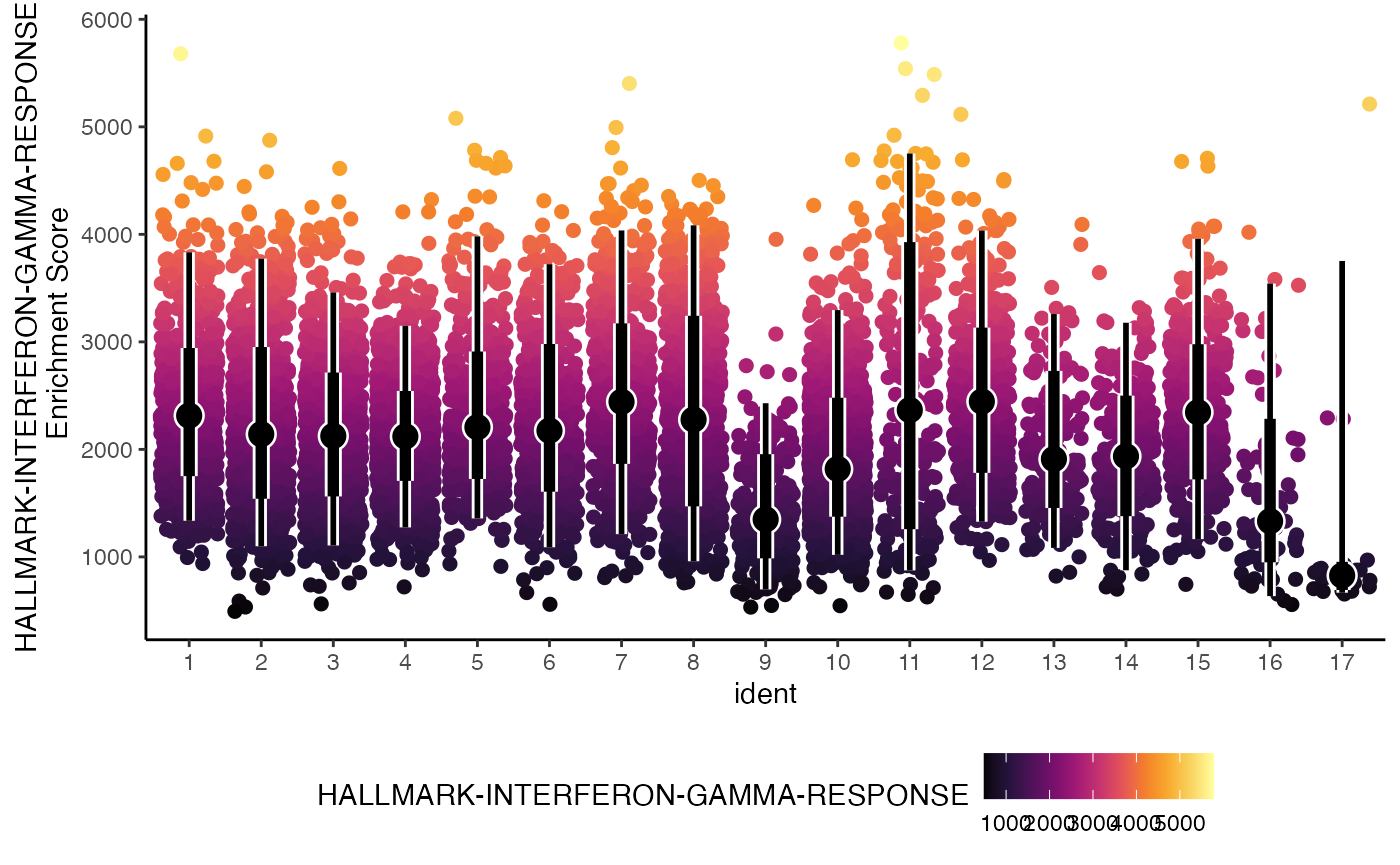
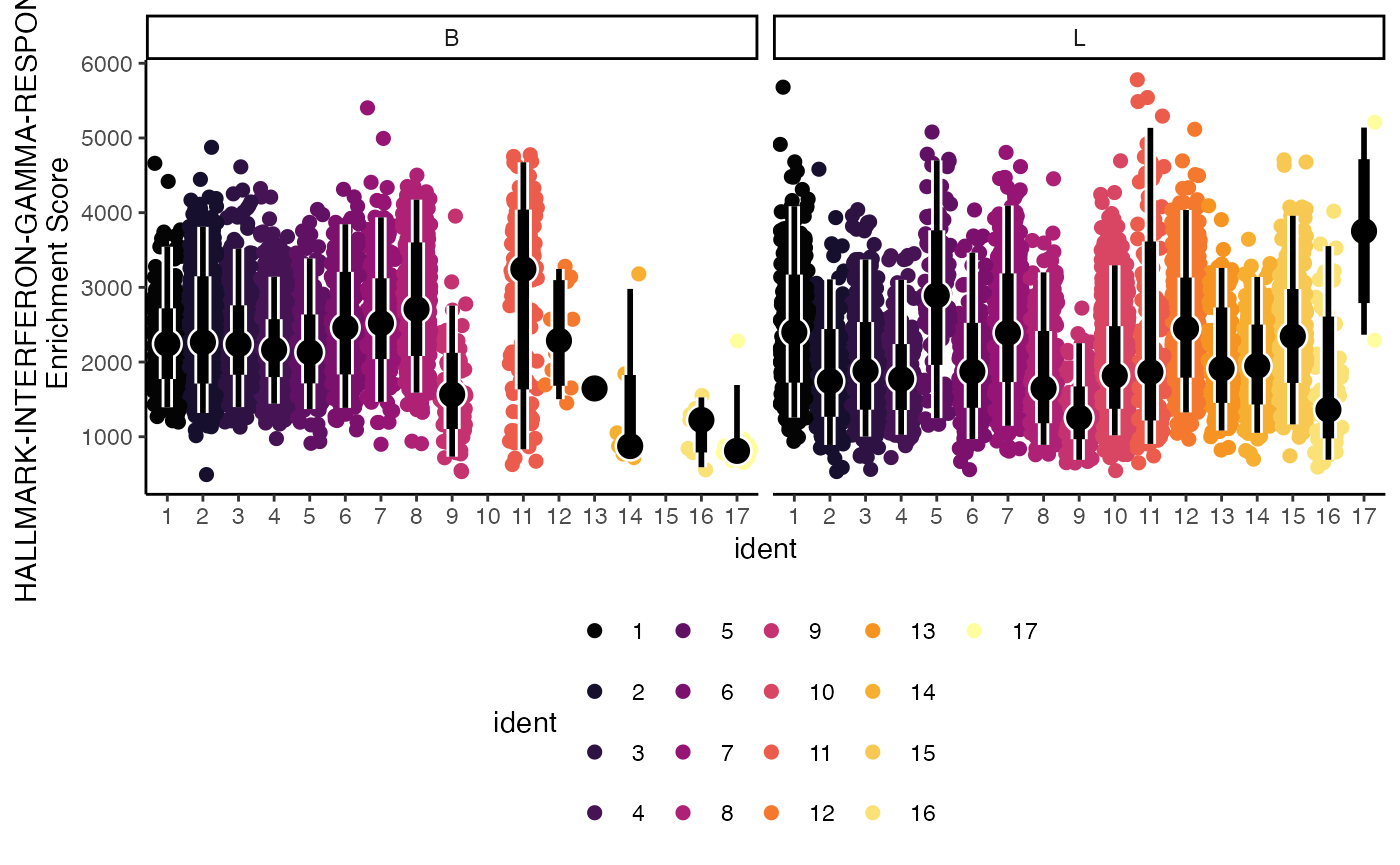
udpate escape and loading

diff --git a/static/uploads/scRepertoire/articles/Running_Escape.html b/static/uploads/scRepertoire/articles/Running_Escape.html
@@ -353,6 +353,17 @@ caution.</p>
 <span>  <span class="fu">theme_classic</span><span class="op">(</span><span class="op">)</span> <span class="op">+</span> </span>
 <span>  <span class="fu">theme</span><span class="op">(</span><span class="op">)</span></span></code></pre></div>
 <p><img src="Running_Escape_files/figure-html/unnamed-chunk-8-1.png" width="700"></p>
+<p>Multi-core support is for all methods is available through <a href="https://bioconductor.org/packages/release/bioc/html/BiocParallel.html" class="external-link">BiocParallel</a>.
+To add more cores, use the argument <strong>BPPARAM</strong> to
+<code>escape.matrix()</code>. Here we will use the
+<code>SnowParam()</code> for it’s support across platforms and
+explicitly call 2 workers (or cores).</p>
+<div class="sourceCode" id="cb9"><pre class="downlit sourceCode r">
+<code class="sourceCode R"><span><span class="va">enrichment.scores</span> <span class="op">&lt;-</span> <span class="fu">escape.matrix</span><span class="op">(</span><span class="va">scRep_example</span>, </span>
+<span>                                   gene.sets <span class="op">=</span> <span class="va">GS.hallmark</span>, </span>
+<span>                                   groups <span class="op">=</span> <span class="fl">5000</span>, </span>
+<span>                                   min.size <span class="op">=</span> <span class="fl">5</span>, </span>
+<span>                                   BPPARAM <span class="op">=</span> <span class="fu">SnowParam</span><span class="op">(</span>workers <span class="op">=</span> <span class="fl">2</span><span class="op">)</span><span class="op">)</span></span></code></pre></div>
 </div>
 <div class="section level3">
 <h3 id="runescape">runEscape<a class="anchor" aria-label="anchor" href="#runescape"></a>
@@ -362,7 +373,7 @@ enrichment score and directly attach the output to a single-cell object.
 The additional parameter for ``<code>runEscape</code> is
 <strong>new.assay.name</strong>, in order to save the enrichment scores
 as a custom assay in the single-cell object.</p>
-<div class="sourceCode" id="cb9"><pre class="downlit sourceCode r">
+<div class="sourceCode" id="cb10"><pre class="downlit sourceCode r">
 <code class="sourceCode R"><span><span class="va">scRep_example</span> <span class="op">&lt;-</span> <span class="fu">runEscape</span><span class="op">(</span><span class="va">scRep_example</span>, </span>
 <span>                           method <span class="op">=</span> <span class="st">"ssGSEA"</span>,</span>
 <span>                           gene.sets <span class="op">=</span> <span class="va">GS.hallmark</span>, </span>
@@ -372,14 +383,14 @@ as a custom assay in the single-cell object.</p>
 <p>We can quickly examine the attached enrichment scores using the
 visualization/workflow we prefer - here we will use just
 <code>FeaturePlot()</code> from the Seurat R package.</p>
-<div class="sourceCode" id="cb10"><pre class="downlit sourceCode r">
+<div class="sourceCode" id="cb11"><pre class="downlit sourceCode r">
 <code class="sourceCode R"><span><span class="co">#Define color palette </span></span>
 <span><span class="va">colorblind_vector</span> <span class="op">&lt;-</span> <span class="fu"><a href="https://rdrr.io/r/grDevices/palettes.html" class="external-link">hcl.colors</a></span><span class="op">(</span>n<span class="op">=</span><span class="fl">7</span>, palette <span class="op">=</span> <span class="st">"inferno"</span>, fixup <span class="op">=</span> <span class="cn">TRUE</span><span class="op">)</span></span>
 <span></span>
 <span><span class="fu">FeaturePlot</span><span class="op">(</span><span class="va">scRep_example</span>, <span class="st">"HALLMARK-APOPTOSIS"</span><span class="op">)</span> <span class="op">+</span> </span>
 <span>  <span class="fu">scale_color_gradientn</span><span class="op">(</span>colors <span class="op">=</span> <span class="va">colorblind_vector</span><span class="op">)</span> <span class="op">+</span> </span>
 <span>  <span class="fu">theme</span><span class="op">(</span>plot.title <span class="op">=</span> <span class="fu">element_blank</span><span class="op">(</span><span class="op">)</span><span class="op">)</span></span></code></pre></div>
-<p><img src="Running_Escape_files/figure-html/unnamed-chunk-10-1.png" width="700"></p>
+<p><img src="Running_Escape_files/figure-html/unnamed-chunk-11-1.png" width="700"></p>
 </div>
 <div class="section level3">
 <h3 id="performnormalization">performNormalization<a class="anchor" aria-label="anchor" href="#performnormalization"></a>
@@ -394,7 +405,7 @@ counts will likely have higher enrichment values.
 by calculating the number of genes expressed in each gene set and cell.
 This is similar to the normalization in classic GSEA and it will be
 stored in a new assay.</p>
-<div class="sourceCode" id="cb11"><pre class="downlit sourceCode r">
+<div class="sourceCode" id="cb12"><pre class="downlit sourceCode r">
 <code class="sourceCode R"><span><span class="va">scRep_example</span> <span class="op">&lt;-</span> <span class="fu">performNormalization</span><span class="op">(</span><span class="va">scRep_example</span>, </span>
 <span>                                      assay <span class="op">=</span> <span class="st">"escape.ssGSEA"</span>, </span>
 <span>                                      gene.sets <span class="op">=</span> <span class="va">GS.hallmark</span><span class="op">)</span></span></code></pre></div>
@@ -403,7 +414,7 @@ scaling factor previously calculated during normal single-cell data
 processing and quality control. This can be done using the
 <strong>scale.factor</strong> argument and providing a vector. This
 approach may be particularly advantageous for large data sets.</p>
-<div class="sourceCode" id="cb12"><pre class="downlit sourceCode r">
+<div class="sourceCode" id="cb13"><pre class="downlit sourceCode r">
 <code class="sourceCode R"><span><span class="va">scRep_example</span> <span class="op">&lt;-</span> <span class="fu">performNormalization</span><span class="op">(</span><span class="va">scRep_example</span>, </span>
 <span>                                      assay <span class="op">=</span> <span class="st">"escape.ssGSEA"</span>, </span>
 <span>                                      gene.sets <span class="op">=</span> <span class="va">GS.hallmark</span>, </span>
@@ -439,12 +450,12 @@ the Hallmark Gene Sets to display for the vignette format using the
 <strong>gene.set.use</strong> set to first 12 gene sets. Alternatively,
 we can plot all gene sets using <strong>gene.set.use</strong> =
 “all”.</p>
-<div class="sourceCode" id="cb13"><pre class="downlit sourceCode r">
+<div class="sourceCode" id="cb14"><pre class="downlit sourceCode r">
 <code class="sourceCode R"><span><span class="fu">heatmapEnrichment</span><span class="op">(</span><span class="va">scRep_example</span>, </span>
 <span>                  group.by <span class="op">=</span> <span class="st">"ident"</span>,</span>
 <span>                  gene.set.use <span class="op">=</span> <span class="fu"><a href="https://rdrr.io/r/base/colnames.html" class="external-link">rownames</a></span><span class="op">(</span><span class="va">scRep_example</span><span class="op">@</span><span class="va">assays</span><span class="op">$</span><span class="va">escape.ssGSEA</span><span class="op">@</span><span class="va">data</span><span class="op">)</span><span class="op">[</span><span class="fl">1</span><span class="op">:</span><span class="fl">12</span><span class="op">]</span>,</span>
 <span>                  assay <span class="op">=</span> <span class="st">"escape.ssGSEA"</span><span class="op">)</span></span></code></pre></div>
-<p><img src="Running_Escape_files/figure-html/unnamed-chunk-13-1.png" width="700">
+<p><img src="Running_Escape_files/figure-html/unnamed-chunk-14-1.png" width="700">
 Most of the visualizations in <em>escape</em> have a defined set of
 parameters.</p>
 <p><strong>group.by</strong></p>
@@ -468,7 +479,7 @@ visualizations.</li>
 reclustering of rows and columns using Euclidean distance of the
 enrichment scores and the Ward2 methods for clustering using
 <strong>cluster.rows</strong> and <strong>cluster.columns</strong>.</p>
-<div class="sourceCode" id="cb14"><pre class="downlit sourceCode r">
+<div class="sourceCode" id="cb15"><pre class="downlit sourceCode r">
 <code class="sourceCode R"><span><span class="fu">heatmapEnrichment</span><span class="op">(</span><span class="va">scRep_example</span>, </span>
 <span>                  group.by <span class="op">=</span> <span class="st">"ident"</span>,</span>
 <span>                  assay <span class="op">=</span> <span class="st">"escape.ssGSEA"</span>,</span>
@@ -476,11 +487,11 @@ enrichment scores and the Ward2 methods for clustering using
 <span>                  scale <span class="op">=</span> <span class="cn">TRUE</span>,</span>
 <span>                  cluster.rows <span class="op">=</span> <span class="cn">TRUE</span>,</span>
 <span>                  cluster.columns <span class="op">=</span> <span class="cn">TRUE</span><span class="op">)</span></span></code></pre></div>
-<p><img src="Running_Escape_files/figure-html/unnamed-chunk-14-1.png" width="700"></p>
+<p><img src="Running_Escape_files/figure-html/unnamed-chunk-15-1.png" width="700"></p>
 <p>Each visualization has an additional argument called
 <strong>palette</strong> that supplies the coloring scheme to be used -
 available color palettes can be viewed with <code><a href="https://rdrr.io/r/grDevices/palettes.html" class="external-link">hcl.pals()</a></code>.</p>
-<div class="sourceCode" id="cb15"><pre class="downlit sourceCode r">
+<div class="sourceCode" id="cb16"><pre class="downlit sourceCode r">
 <code class="sourceCode R"><span><span class="fu"><a href="https://rdrr.io/r/grDevices/palettes.html" class="external-link">hcl.pals</a></span><span class="op">(</span><span class="op">)</span></span></code></pre></div>
 <pre><code><span><span class="co">##   [1] "Pastel 1"      "Dark 2"        "Dark 3"        "Set 2"        </span></span>
 <span><span class="co">##   [5] "Set 3"         "Warm"          "Cold"          "Harmonic"     </span></span>
@@ -511,24 +522,24 @@ available color palettes can be viewed with <code><a href="https://rdrr.io/r/grD
 <span><span class="co">## [105] "RdBu"          "RdGy"          "PiYG"          "PRGn"         </span></span>
 <span><span class="co">## [109] "BrBG"          "RdYlBu"        "RdYlGn"        "Spectral"     </span></span>
 <span><span class="co">## [113] "Zissou 1"      "Cividis"       "Roma"</span></span></code></pre>
-<div class="sourceCode" id="cb17"><pre class="downlit sourceCode r">
+<div class="sourceCode" id="cb18"><pre class="downlit sourceCode r">
 <code class="sourceCode R"><span><span class="fu">heatmapEnrichment</span><span class="op">(</span><span class="va">scRep_example</span>, </span>
 <span>                  group.by <span class="op">=</span> <span class="st">"ident"</span>,</span>
 <span>                  gene.set.use <span class="op">=</span> <span class="fu"><a href="https://rdrr.io/r/base/colnames.html" class="external-link">rownames</a></span><span class="op">(</span><span class="va">scRep_example</span><span class="op">@</span><span class="va">assays</span><span class="op">$</span><span class="va">escape.ssGSEA</span><span class="op">@</span><span class="va">data</span><span class="op">)</span><span class="op">[</span><span class="fl">1</span><span class="op">:</span><span class="fl">12</span><span class="op">]</span>,</span>
 <span>                  assay <span class="op">=</span> <span class="st">"escape.ssGSEA"</span>,</span>
 <span>                  palette <span class="op">=</span> <span class="st">"Spectral"</span><span class="op">)</span> </span></code></pre></div>
-<p><img src="Running_Escape_files/figure-html/unnamed-chunk-16-1.png" width="700"></p>
+<p><img src="Running_Escape_files/figure-html/unnamed-chunk-17-1.png" width="700"></p>
 <p>Alternatively, we can add an additional layer to the ggplot object
 that is returned by the visualizations using something like
 <code>scale_fill_gradientn()</code> for continuous values or
 <code>scale_fill_manual()</code> for the categorical variables.</p>
-<div class="sourceCode" id="cb18"><pre class="downlit sourceCode r">
+<div class="sourceCode" id="cb19"><pre class="downlit sourceCode r">
 <code class="sourceCode R"><span><span class="fu">heatmapEnrichment</span><span class="op">(</span><span class="va">scRep_example</span>, </span>
 <span>                  group.by <span class="op">=</span> <span class="st">"ident"</span>,</span>
 <span>                  gene.set.use <span class="op">=</span> <span class="fu"><a href="https://rdrr.io/r/base/colnames.html" class="external-link">rownames</a></span><span class="op">(</span><span class="va">scRep_example</span><span class="op">@</span><span class="va">assays</span><span class="op">$</span><span class="va">escape.ssGSEA</span><span class="op">@</span><span class="va">data</span><span class="op">)</span><span class="op">[</span><span class="fl">1</span><span class="op">:</span><span class="fl">12</span><span class="op">]</span>,</span>
 <span>                  assay <span class="op">=</span> <span class="st">"escape.ssGSEA"</span><span class="op">)</span> <span class="op">+</span> </span>
 <span>  <span class="fu">scale_fill_gradientn</span><span class="op">(</span>colors <span class="op">=</span> <span class="fu"><a href="https://rdrr.io/r/base/rev.html" class="external-link">rev</a></span><span class="op">(</span><span class="fu">brewer.pal</span><span class="op">(</span><span class="fl">11</span>, <span class="st">"RdYlBu"</span><span class="op">)</span><span class="op">)</span><span class="op">)</span> </span></code></pre></div>
-<p><img src="Running_Escape_files/figure-html/unnamed-chunk-17-1.png" width="700"></p>
+<p><img src="Running_Escape_files/figure-html/unnamed-chunk-18-1.png" width="700"></p>
 </div>
 <div class="section level3">
 <h3 id="geyserenrichment">geyserEnrichment<a class="anchor" aria-label="anchor" href="#geyserenrichment"></a>
@@ -538,38 +549,38 @@ that is returned by the visualizations using something like
 the Y-axis with graphical summary where the central dot refers to the
 median enrichment value and the thicker/thinner lines demonstrate the
 interval summaries referring to the 66% and 95%.</p>
-<div class="sourceCode" id="cb19"><pre class="downlit sourceCode r">
-<code class="sourceCode R"><span><span class="fu">geyserEnrichment</span><span class="op">(</span><span class="va">scRep_example</span>, </span>
-<span>                 assay <span class="op">=</span> <span class="st">"escape.ssGSEA"</span>,</span>
-<span>                 gene.set <span class="op">=</span> <span class="st">"HALLMARK-INTERFERON-GAMMA-RESPONSE"</span><span class="op">)</span></span></code></pre></div>
-<p><img src="Running_Escape_files/figure-html/unnamed-chunk-18-1.png" width="700"></p>
-<p>To show the additional parameters that appear in visualizations of
-individual enrichment gene sets - we can reorder the groups by the mean
-of the gene set using <strong>order.by</strong> = “mean”.</p>
 <div class="sourceCode" id="cb20"><pre class="downlit sourceCode r">
 <code class="sourceCode R"><span><span class="fu">geyserEnrichment</span><span class="op">(</span><span class="va">scRep_example</span>, </span>
 <span>                 assay <span class="op">=</span> <span class="st">"escape.ssGSEA"</span>,</span>
-<span>                 gene.set <span class="op">=</span> <span class="st">"HALLMARK-INTERFERON-GAMMA-RESPONSE"</span>, </span>
-<span>                 order.by <span class="op">=</span> <span class="st">"mean"</span><span class="op">)</span></span></code></pre></div>
+<span>                 gene.set <span class="op">=</span> <span class="st">"HALLMARK-INTERFERON-GAMMA-RESPONSE"</span><span class="op">)</span></span></code></pre></div>
 <p><img src="Running_Escape_files/figure-html/unnamed-chunk-19-1.png" width="700"></p>
-<p>What if we had 2 separate samples or groups within the data? Another
-parameter we can use is <strong>facet.by</strong> to allow for direct
-visualization of an additional variable.</p>
+<p>To show the additional parameters that appear in visualizations of
+individual enrichment gene sets - we can reorder the groups by the mean
+of the gene set using <strong>order.by</strong> = “mean”.</p>
 <div class="sourceCode" id="cb21"><pre class="downlit sourceCode r">
 <code class="sourceCode R"><span><span class="fu">geyserEnrichment</span><span class="op">(</span><span class="va">scRep_example</span>, </span>
 <span>                 assay <span class="op">=</span> <span class="st">"escape.ssGSEA"</span>,</span>
 <span>                 gene.set <span class="op">=</span> <span class="st">"HALLMARK-INTERFERON-GAMMA-RESPONSE"</span>, </span>
-<span>                 facet.by <span class="op">=</span> <span class="st">"Type"</span><span class="op">)</span></span></code></pre></div>
-<p><img src="Running_Escape_files/figure-html/unnamed-chunk-20-1.png" width="700">
-Lastly, we can select the way the color is applied to the plot using the
-<strong>color.by</strong> parameter. Here we can set it to the gene set
-of interest <em>“HALLMARK-INTERFERON-GAMMA-RESPONSE”</em>.</p>
+<span>                 order.by <span class="op">=</span> <span class="st">"mean"</span><span class="op">)</span></span></code></pre></div>
+<p><img src="Running_Escape_files/figure-html/unnamed-chunk-20-1.png" width="700"></p>
+<p>What if we had 2 separate samples or groups within the data? Another
+parameter we can use is <strong>facet.by</strong> to allow for direct
+visualization of an additional variable.</p>
 <div class="sourceCode" id="cb22"><pre class="downlit sourceCode r">
 <code class="sourceCode R"><span><span class="fu">geyserEnrichment</span><span class="op">(</span><span class="va">scRep_example</span>, </span>
 <span>                 assay <span class="op">=</span> <span class="st">"escape.ssGSEA"</span>,</span>
 <span>                 gene.set <span class="op">=</span> <span class="st">"HALLMARK-INTERFERON-GAMMA-RESPONSE"</span>, </span>
+<span>                 facet.by <span class="op">=</span> <span class="st">"Type"</span><span class="op">)</span></span></code></pre></div>
+<p><img src="Running_Escape_files/figure-html/unnamed-chunk-21-1.png" width="700">
+Lastly, we can select the way the color is applied to the plot using the
+<strong>color.by</strong> parameter. Here we can set it to the gene set
+of interest <em>“HALLMARK-INTERFERON-GAMMA-RESPONSE”</em>.</p>
+<div class="sourceCode" id="cb23"><pre class="downlit sourceCode r">
+<code class="sourceCode R"><span><span class="fu">geyserEnrichment</span><span class="op">(</span><span class="va">scRep_example</span>, </span>
+<span>                 assay <span class="op">=</span> <span class="st">"escape.ssGSEA"</span>,</span>
+<span>                 gene.set <span class="op">=</span> <span class="st">"HALLMARK-INTERFERON-GAMMA-RESPONSE"</span>, </span>
 <span>                 color.by  <span class="op">=</span> <span class="st">"HALLMARK-INTERFERON-GAMMA-RESPONSE"</span><span class="op">)</span></span></code></pre></div>
-<p><img src="Running_Escape_files/figure-html/unnamed-chunk-21-1.png" width="700"></p>
+<p><img src="Running_Escape_files/figure-html/unnamed-chunk-22-1.png" width="700"></p>
 </div>
 <div class="section level3">
 <h3 id="ridgeenrichment">ridgeEnrichment<a class="anchor" aria-label="anchor" href="#ridgeenrichment"></a>
@@ -578,20 +589,20 @@ of interest <em>“HALLMARK-INTERFERON-GAMMA-RESPONSE”</em>.</p>
 <code>ridgeEnrichment()</code> can display the distribution of
 enrichment values across the selected gene set. The central line is at
 the median value for the respective grouping.</p>
-<div class="sourceCode" id="cb23"><pre class="downlit sourceCode r">
+<div class="sourceCode" id="cb24"><pre class="downlit sourceCode r">
 <code class="sourceCode R"><span><span class="fu">ridgeEnrichment</span><span class="op">(</span><span class="va">scRep_example</span>, </span>
 <span>                assay <span class="op">=</span> <span class="st">"escape.ssGSEA"</span>,</span>
 <span>                gene.set <span class="op">=</span> <span class="st">"HALLMARK-IL2-STAT5-SIGNALING"</span><span class="op">)</span></span></code></pre></div>
-<p><img src="Running_Escape_files/figure-html/unnamed-chunk-22-1.png" width="700">
-We can get the relative position of individual cells along the x-axis
+<p><img src="Running_Escape_files/figure-html/unnamed-chunk-23-1.png" width="700"></p>
+<p>We can get the relative position of individual cells along the x-axis
 using the <strong>add.rug</strong> parameter.</p>
-<div class="sourceCode" id="cb24"><pre class="downlit sourceCode r">
+<div class="sourceCode" id="cb25"><pre class="downlit sourceCode r">
 <code class="sourceCode R"><span><span class="fu">ridgeEnrichment</span><span class="op">(</span><span class="va">scRep_example</span>, </span>
 <span>                assay <span class="op">=</span> <span class="st">"escape.ssGSEA"</span>,</span>
 <span>                gene.set <span class="op">=</span> <span class="st">"HALLMARK-IL2-STAT5-SIGNALING"</span>,</span>
 <span>                add.rug <span class="op">=</span> <span class="cn">TRUE</span>,</span>
 <span>                scale <span class="op">=</span> <span class="cn">TRUE</span><span class="op">)</span></span></code></pre></div>
-<p><img src="Running_Escape_files/figure-html/unnamed-chunk-23-1.png" width="700"></p>
+<p><img src="Running_Escape_files/figure-html/unnamed-chunk-24-1.png" width="700"></p>
 </div>
 <div class="section level3">
 <h3 id="splitenrichment">splitEnrichment<a class="anchor" aria-label="anchor" href="#splitenrichment"></a>
@@ -605,12 +616,12 @@ will be two halves of a violin plot based on the
 relative distribution across all samples. Here, we split the samples by
 <em>Type</em> where <strong>B</strong> refers to the peripheral blood
 and <strong>L</strong> refers to lung.</p>
-<div class="sourceCode" id="cb25"><pre class="downlit sourceCode r">
+<div class="sourceCode" id="cb26"><pre class="downlit sourceCode r">
 <code class="sourceCode R"><span><span class="fu">splitEnrichment</span><span class="op">(</span><span class="va">scRep_example</span>, </span>
 <span>                assay <span class="op">=</span> <span class="st">"escape.ssGSEA"</span>,</span>
 <span>                gene.set <span class="op">=</span> <span class="st">"HALLMARK-IL2-STAT5-SIGNALING"</span>, </span>
 <span>                split.by <span class="op">=</span> <span class="st">"Type"</span><span class="op">)</span></span></code></pre></div>
-<p><img src="Running_Escape_files/figure-html/unnamed-chunk-24-1.png" width="700"></p>
+<p><img src="Running_Escape_files/figure-html/unnamed-chunk-25-1.png" width="700"></p>
 </div>
 <div class="section level3">
 <h3 id="densityenrichment">densityEnrichment<a class="anchor" aria-label="anchor" href="#densityenrichment"></a>
@@ -630,12 +641,12 @@ the single-cell object.</p>
 <li>The gene set library from either of the 3 options in the first
 section of the vignette.</li>
 </ul>
-<div class="sourceCode" id="cb26"><pre class="downlit sourceCode r">
+<div class="sourceCode" id="cb27"><pre class="downlit sourceCode r">
 <code class="sourceCode R"><span><span class="fu">densityEnrichment</span><span class="op">(</span><span class="va">scRep_example</span>, </span>
 <span>                  gene.set.use <span class="op">=</span> <span class="st">"HALLMARK-IL6-JAK-STAT3-SIGNALING"</span>, </span>
 <span>                  group.by <span class="op">=</span> <span class="st">"orig.ident"</span>,</span>
 <span>                  gene.sets <span class="op">=</span> <span class="va">GS.hallmark</span><span class="op">)</span></span></code></pre></div>
-<p><img src="Running_Escape_files/figure-html/unnamed-chunk-25-1.png" width="700"></p>
+<p><img src="Running_Escape_files/figure-html/unnamed-chunk-26-1.png" width="700"></p>
 </div>
 <div class="section level3">
 <h3 id="scatterenrichment">scatterEnrichment<a class="anchor" aria-label="anchor" href="#scatterenrichment"></a>
@@ -647,22 +658,22 @@ determined by the number of neighbors, similar to the <a href="https://www.bioco
 R package</a>. We just need to define which gene set to plot on the
 <strong>x.axis</strong> and which to plot on the
 <strong>y.axis</strong>.</p>
-<div class="sourceCode" id="cb27"><pre class="downlit sourceCode r">
+<div class="sourceCode" id="cb28"><pre class="downlit sourceCode r">
 <code class="sourceCode R"><span><span class="fu">scatterEnrichment</span><span class="op">(</span><span class="va">scRep_example</span>, </span>
 <span>                  assay <span class="op">=</span> <span class="st">"escape.ssGSEA"</span>,</span>
 <span>                  x.axis <span class="op">=</span> <span class="st">"HALLMARK-INTERFERON-GAMMA-RESPONSE"</span>,</span>
 <span>                  y.axis <span class="op">=</span> <span class="st">"HALLMARK-IL6-JAK-STAT3-SIGNALING"</span><span class="op">)</span></span></code></pre></div>
-<p><img src="Running_Escape_files/figure-html/unnamed-chunk-26-1.png" width="700"></p>
+<p><img src="Running_Escape_files/figure-html/unnamed-chunk-27-1.png" width="700"></p>
 <p>The scatter plot can also be converted into a hexbin, another method
 for summarizing the individual cell distributions along the x and y
 axis, by setting <strong>style</strong> = “hex”.</p>
-<div class="sourceCode" id="cb28"><pre class="downlit sourceCode r">
+<div class="sourceCode" id="cb29"><pre class="downlit sourceCode r">
 <code class="sourceCode R"><span><span class="fu">scatterEnrichment</span><span class="op">(</span><span class="va">scRep_example</span>, </span>
 <span>                  assay <span class="op">=</span> <span class="st">"escape.ssGSEA"</span>,</span>
 <span>                  x.axis <span class="op">=</span> <span class="st">"HALLMARK-INTERFERON-GAMMA-RESPONSE"</span>,</span>
 <span>                  y.axis <span class="op">=</span> <span class="st">"HALLMARK-IL6-JAK-STAT3-SIGNALING"</span>, </span>
 <span>                  style <span class="op">=</span> <span class="st">"hex"</span><span class="op">)</span></span></code></pre></div>
-<p><img src="Running_Escape_files/figure-html/unnamed-chunk-27-1.png" width="700"></p>
+<p><img src="Running_Escape_files/figure-html/unnamed-chunk-28-1.png" width="700"></p>
 <hr>
 </div>
 </div>
@@ -682,7 +693,7 @@ overlay of the individual features, use <code>performPCA()</code>.</p>
 <code>RunPCA()</code> or scater’s ``<code>runPCA()</code> can be used.
 These functions are likely faster and would be ideal if we have a larger
 number of cells and/or gene sets.</p>
-<div class="sourceCode" id="cb29"><pre class="downlit sourceCode r">
+<div class="sourceCode" id="cb30"><pre class="downlit sourceCode r">
 <code class="sourceCode R"><span><span class="va">scRep_example</span> <span class="op">&lt;-</span> <span class="fu">performPCA</span><span class="op">(</span><span class="va">scRep_example</span>, </span>
 <span>                            assay <span class="op">=</span> <span class="st">"escape.ssGSEA"</span>,</span>
 <span>                            n.dim <span class="op">=</span> <span class="fl">1</span><span class="op">:</span><span class="fl">10</span><span class="op">)</span></span></code></pre></div>
@@ -690,12 +701,12 @@ number of cells and/or gene sets.</p>
 <code>pcaEnrichment()</code> that functions similarly to the
 <code>scatterEnrichment()</code> function where <strong>x.axis</strong>
 and <strong>y.axis</strong> are the components to plot.</p>
-<div class="sourceCode" id="cb30"><pre class="downlit sourceCode r">
+<div class="sourceCode" id="cb31"><pre class="downlit sourceCode r">
 <code class="sourceCode R"><span><span class="fu">pcaEnrichment</span><span class="op">(</span><span class="va">scRep_example</span>, </span>
 <span>              dimRed <span class="op">=</span> <span class="st">"escape.PCA"</span>,</span>
 <span>              x.axis <span class="op">=</span> <span class="st">"PC1"</span>,</span>
 <span>              y.axis <span class="op">=</span> <span class="st">"PC2"</span><span class="op">)</span></span></code></pre></div>
-<p><img src="Running_Escape_files/figure-html/unnamed-chunk-29-1.png" width="700"></p>
+<p><img src="Running_Escape_files/figure-html/unnamed-chunk-30-1.png" width="700"></p>
 <p><code>pcaEnrichment()</code> can plot additional information on the
 principal component analysis.</p>
 <p><strong>add.percent.contribution</strong> will add the relative
@@ -706,7 +717,7 @@ direction that the features/gene sets contribute to the selected
 components. The number of gene sets is determined by
 <strong>number.of.factors</strong>. This can assist in understanding the
 underlying differences in enrichment across different cells.</p>
-<div class="sourceCode" id="cb31"><pre class="downlit sourceCode r">
+<div class="sourceCode" id="cb32"><pre class="downlit sourceCode r">
 <code class="sourceCode R"><span><span class="fu">pcaEnrichment</span><span class="op">(</span><span class="va">scRep_example</span>, </span>
 <span>              dimRed <span class="op">=</span> <span class="st">"escape.PCA"</span>,</span>
 <span>              x.axis <span class="op">=</span> <span class="st">"PC1"</span>,</span>
@@ -714,7 +725,7 @@ underlying differences in enrichment across different cells.</p>
 <span>              add.percent.contribution <span class="op">=</span> <span class="cn">TRUE</span>,</span>
 <span>              display.factors <span class="op">=</span> <span class="cn">TRUE</span>,</span>
 <span>              number.of.factors <span class="op">=</span> <span class="fl">10</span><span class="op">)</span></span></code></pre></div>
-<p><img src="Running_Escape_files/figure-html/unnamed-chunk-30-1.png" width="700"></p>
+<p><img src="Running_Escape_files/figure-html/unnamed-chunk-31-1.png" width="700"></p>
 </div>
 <div class="section level3">
 <h3 id="differential-enrichment">Differential Enrichment<a class="anchor" aria-label="anchor" href="#differential-enrichment"></a>
@@ -725,13 +736,13 @@ differential enrichment values, we can first normalize the enrichment
 values for the ssGSEA calculations. Here we are using the
 <strong>scale.factor</strong> parameter of <em>nFeature_RNA</em>, which
 is the total feature space for each cell.</p>
-<div class="sourceCode" id="cb32"><pre class="downlit sourceCode r">
+<div class="sourceCode" id="cb33"><pre class="downlit sourceCode r">
 <code class="sourceCode R"><span><span class="va">scRep_example</span> <span class="op">&lt;-</span> <span class="fu">performNormalization</span><span class="op">(</span><span class="va">scRep_example</span>, </span>
 <span>                                      assay <span class="op">=</span> <span class="st">"escape.ssGSEA"</span>, </span>
 <span>                                      gene.sets <span class="op">=</span> <span class="va">GS.hallmark</span>, </span>
 <span>                                      scale.factor <span class="op">=</span> <span class="va">scRep_example</span><span class="op">$</span><span class="va">nFeature_RNA</span><span class="op">)</span></span></code></pre></div>
 <pre><code><span><span class="co">## [1] "Normalizing enrichment scores per cell..."</span></span></code></pre>
-<div class="sourceCode" id="cb34"><pre class="downlit sourceCode r">
+<div class="sourceCode" id="cb35"><pre class="downlit sourceCode r">
 <code class="sourceCode R"><span><span class="va">all.markers</span> <span class="op">&lt;-</span> <span class="fu">FindAllMarkers</span><span class="op">(</span><span class="va">scRep_example</span>, </span>
 <span>                              assay <span class="op">=</span> <span class="st">"escape.ssGSEA_normalized"</span>, </span>
 <span>                              min.pct <span class="op">=</span> <span class="fl">0</span>,</span>

diff --git a/static/uploads/scRepertoire/articles/Loading.html b/static/uploads/scRepertoire/articles/Loading.html
@@ -183,7 +183,9 @@ formats:</p>
 <ul>
 <li>AIRR<br>
 </li>
-<li>BD Rhapsody Multiomic Immune Profiling<br>
+<li>
+<a href="https://www.bd-rhapsody.com/" class="external-link">BD Rhapsody</a> Multiomic
+Immune Profiling<br>
 </li>
 <li>
 <a href="https://immcantation.readthedocs.io/en/stable/index.html" class="external-link">Immcantation</a><br>
@@ -194,8 +196,10 @@ formats:</p>
 <a href="https://pubmed.ncbi.nlm.nih.gov/25924071/" class="external-link">MiXCR</a><br>
 </li>
 <li>
-<a href="https://www.omniscope.ai/" class="external-link">Omniscope</a><br>
-</li>
+<a href="https://www.omniscope.ai/" class="external-link">Omniscope</a> OS-T/OS-B</li>
+<li>
+<a href="https://www.parsebiosciences.com/" class="external-link">Parse</a> Evercode
+TCR/BCR</li>
 <li>
 <a href="https://pubmed.ncbi.nlm.nih.gov/33986545/" class="external-link">TRUST4</a><br>
 </li>
